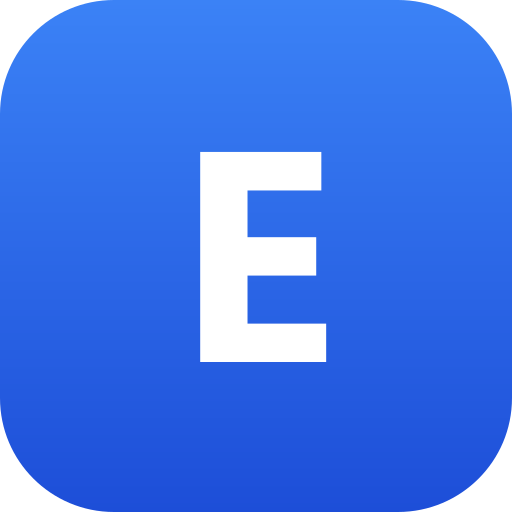
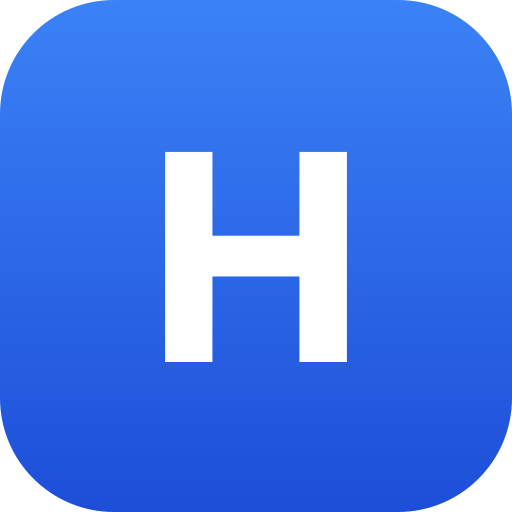
feat: renomme EditorX en H Editor + titre anime + infos enrichies
- Nom change partout : interface (en-tete, splash, barre d'etat, 404, page
  hors ligne), manifeste PWA, metadonnees SEO, documentation, package.
- Icone : la lettre E devient H (favicon, 192, 512, og-image regenerees).
- Les cles de stockage (editorx-*), la base IndexedDB et les canaux postMessage
  restent inchanger : les donnees des utilisateurs existants restent lisibles.
- Sous-titre : "Ne sur smartphone, eleve a la demoscene" a la place de
  "Editeur de code professionnel".
- AppTitle (nouveau) : cycle de couleurs regulier par lettre, hommage demoscene,
  gele par prefers-reduced-motion, nom complet expose aux lecteurs d'ecran.
- Modal Infos complete : petite histoire, usages, confidentialite, ton modeste.
- Tests adaptes : titre de la page hors ligne, nom de telechargement h-editor-*.
  lint 0 erreur, tsc 0 erreur, 147/147 unitaires, 121/121 E2E (4 moteurs).

Changed region(s): [[0.3125, 0.2812, 0.6875, 0.7188]]

diff --git a/index.html b/index.html
@@ -3,8 +3,8 @@
   <head>
     <meta charset="UTF-8" />
     <meta name="viewport" content="width=device-width, initial-scale=1.0" />
-    <title>EditorX - Éditeur de code en ligne gratuit | 40+ langages</title>
-    <meta name="description" content="EditorX est un éditeur de code professionnel 100% front-end. Coloration syntaxique pour 40+ langages, preview Markdown, raccourcis VSCode, sauvegarde locale et export ZIP. Gratuit et sans inscription." />
+    <title>H Editor - Éditeur de code en ligne gratuit | 40+ langages</title>
+    <meta name="description" content="H Editor est un éditeur de code 100% front-end, né sur smartphone. Coloration syntaxique pour 40+ langages, preview Markdown, raccourcis VSCode, sauvegarde locale et export ZIP. Gratuit et sans inscription." />
     <meta name="author" content="Geoffroy Streit" />
     <meta name="keywords" content="éditeur de code, code editor, Monaco Editor, IDE en ligne, JavaScript, TypeScript, Python, PHP, Markdown, développement web, programmation" />
     <meta name="robots" content="index, follow" />
@@ -24,25 +24,25 @@
     <!-- JetBrains Mono est auto-hébergée (src/styles/fonts.css) : aucun appel réseau tiers. -->
 
     <!-- Open Graph -->
-    <meta property="og:title" content="EditorX - Éditeur de code en ligne gratuit" />
-    <meta property="og:description" content="Éditeur de code professionnel 100% front-end avec coloration syntaxique, preview Markdown et raccourcis VSCode." />
+    <meta property="og:title" content="H Editor - Éditeur de code en ligne gratuit" />
+    <meta property="og:description" content="Éditeur de code 100% front-end avec coloration syntaxique, preview Markdown et raccourcis VSCode." />
     <meta property="og:type" content="website" />
     <meta property="og:url" content="https://hylst.fr/app/" />
     <meta property="og:image" content="https://hylst.fr/app/og-image.png" />
     <meta property="og:image:width" content="1200" />
     <meta property="og:image:height" content="630" />
-    <meta property="og:image:alt" content="EditorX — éditeur de code dans votre navigateur" />
+    <meta property="og:image:alt" content="H Editor — éditeur de code dans votre navigateur" />
     <meta property="og:locale" content="fr_FR" />
     <meta property="og:locale:alternate" content="en_US" />
-    <meta property="og:site_name" content="EditorX" />
+    <meta property="og:site_name" content="H Editor" />
 
     <!-- Twitter Card -->
     <meta name="twitter:card" content="summary_large_image" />
     <meta name="twitter:site" content="@hylst" />
-    <meta name="twitter:title" content="EditorX - Éditeur de code en ligne gratuit" />
-    <meta name="twitter:description" content="Éditeur de code professionnel avec Monaco Editor, 40+ langages supportés." />
+    <meta name="twitter:title" content="H Editor - Éditeur de code en ligne gratuit" />
+    <meta name="twitter:description" content="Éditeur de code 100% local avec Monaco Editor, 40+ langages supportés." />
     <meta name="twitter:image" content="https://hylst.fr/app/og-image.png" />
-    <meta name="twitter:image:alt" content="EditorX — éditeur de code dans votre navigateur" />
+    <meta name="twitter:image:alt" content="H Editor — éditeur de code dans votre navigateur" />
     <meta name="twitter:creator" content="@hylst" />
 
     <!-- Structured Data -->
@@ -50,8 +50,8 @@
     {
       "@context": "https://schema.org",
       "@type": "WebApplication",
-      "name": "EditorX",
-      "description": "Éditeur de code professionnel 100% front-end avec coloration syntaxique pour 40+ langages",
+      "name": "H Editor",
+      "description": "Éditeur de code 100% local avec coloration syntaxique pour 40+ langages",
       "url": "https://hylst.fr/app/",
       "image": "https://hylst.fr/app/og-image.png",
       "applicationCategory": "DeveloperApplication",
@@ -92,9 +92,9 @@
   <body>
     <noscript>
       <div style="font-family: system-ui, sans-serif; max-width: 40rem; margin: 4rem auto; padding: 0 1rem; color: #e5e7eb; background: #0f1419;">
-        <h1>EditorX nécessite JavaScript</h1>
+        <h1>H Editor nécessite JavaScript</h1>
         <p>
-          EditorX est un éditeur de code qui s'exécute entièrement dans votre navigateur.
+          H Editor est un éditeur de code qui s'exécute entièrement dans votre navigateur.
           Activez JavaScript pour l'utiliser — aucune donnée n'est envoyée à un serveur.
         </p>
       </div>

diff --git a/src/components/Editor/InfoDialog.tsx b/src/components/Editor/InfoDialog.tsx
@@ -44,7 +44,7 @@ const InfoDialog = ({ open, onOpenChange }: InfoDialogProps) => (
       <DialogHeader>
         <DialogTitle className="flex items-center gap-2 text-xl">
           <Info className="h-5 w-5 text-primary" aria-hidden="true" />
-          À propos d’EditorX
+          À propos d’H Editor
         </DialogTitle>
       </DialogHeader>
 
@@ -68,9 +68,36 @@ const InfoDialog = ({ open, onOpenChange }: InfoDialogProps) => (
           <TabsContent value="about" className="space-y-4">
             <div className="py-4 text-center">
               <p className="bg-gradient-to-r from-primary to-accent bg-clip-text text-3xl font-bold text-transparent">
-                EditorX
+                H Editor
               </p>
-              <p className="text-muted-foreground">Éditeur de code 100 % local — version {APP_VERSION}</p>
+              <p className="text-muted-foreground">
+                Un petit éditeur de code 100 % local — version {APP_VERSION}
+              </p>
+            </div>
+
+            <div className="space-y-2 rounded-lg border border-border bg-muted/40 p-4">
+              <h3 className="font-semibold">Petite histoire</h3>
+              <p className="text-sm text-muted-foreground">
+                H Editor est né il y a deux ans d’un besoin tout simple : pouvoir éditer du code
+                sur smartphone et sur tablette, en attendant de retrouver un vrai clavier à la
+                maison. Il a bien grandi depuis — et reste, avant tout, un plaisir à développer.
+              </p>
+              <p className="text-sm text-muted-foreground">
+                Derrière ce projet : Geoffroy, développeur passionné de rétro-informatique,
+                d’ATARI ST et de demoscene — l’animation du titre dans l’en-tête est un petit clin
+                d’œil à cette époque où chaque couleur de palette comptait. Sans prétention :
+                l’outil ne remplace pas votre IDE, il vous suit simplement partout.
+              </p>
+            </div>
+
+            <div className="space-y-2">
+              <h3 className="font-semibold">Ce que vous pouvez faire ici</h3>
+              <ul className="list-inside list-disc space-y-1 text-sm text-muted-foreground">
+                <li>Éditer plus de 40 langages avec le moteur de VS Code, formatage Prettier inclus.</li>
+                <li>Organiser un projet (dossiers, ZIP, JSON) et le retrouver intact à chaque retour.</li>
+                <li>Prévisualiser du Markdown ou un site multi-fichiers, console interactive comprise.</li>
+                <li>Installer l’app (PWA) et travailler hors ligne — tout reste dans votre navigateur.</li>
+              </ul>
             </div>
 
             <div className="space-y-2 rounded-lg border border-border bg-muted/40 p-4">
@@ -92,13 +119,18 @@ const InfoDialog = ({ open, onOpenChange }: InfoDialogProps) => (
             <div className="space-y-2">
               <h3 className="font-semibold">Technologies</h3>
               <p className="text-sm text-muted-foreground">
-                React 18, TypeScript, Vite, Monaco Editor, Tailwind CSS, Radix UI, Prettier, JSZip.
+                React 18, TypeScript, Vite, Monaco Editor, Tailwind CSS, Radix UI, Prettier, JSZip —
+                le tout sans backend : vos données ne quittent jamais votre navigateur.
               </p>
             </div>
 
             <div className="space-y-1">
               <h3 className="font-semibold">Créateur</h3>
-              <p className="text-sm text-muted-foreground">{APP_AUTHOR} — licence MIT</p>
+              <p className="text-sm text-muted-foreground">
+                {APP_AUTHOR} — licence MIT. L’outil est offert, sans publicité ni compte. Vos
+                retours, idées et rapports de bugs sont très bienvenus : c’est ce qui le rend
+                meilleur, un commit à la fois.
+              </p>
             </div>
           </TabsContent>
 

diff --git a/src/index.css b/src/index.css
@@ -5,7 +5,7 @@
 @tailwind utilities;
 
 /*
-  Système de design EditorX — toutes les couleurs sont en HSL.
+  Système de design H Editor — toutes les couleurs sont en HSL.
 
   `:root` porte le thème CLAIR, `.dark` le thème SOMBRE (mode `class` de Tailwind,
   piloté par le réglage « Thème de l'interface »). Auparavant une seule palette
@@ -98,7 +98,7 @@
   }
 
   .dark {
-    /* ── Thème sombre (défaut d'EditorX) ───────────────────────────────── */
+    /* ── Thème sombre (défaut d'H Editor) ───────────────────────────────── */
     --background: 220 15% 12%;
     --foreground: 210 20% 98%;
 
@@ -203,6 +203,39 @@
 .animate-fade-in {
   animation: fade-in 0.2s ease-out;
 }
+
+/* ── Titre de l'application : cycle de couleurs régulier, hommage aux
+   changements de palette de la demoscene. Chaque lettre est décalée dans le
+   cycle (--char-index) pour une onde qui traverse le nom. Le bloc global
+   `prefers-reduced-motion` en fin de fichier gèle l'animation pour celles et
+   ceux qui le demandent. ────────────────────────────────────────────────── */
+@keyframes app-title-cycle {
+  0% {
+    color: hsl(195 95% 58%);
+  }
+  25% {
+    color: hsl(280 85% 74%);
+  }
+  50% {
+    color: hsl(330 90% 70%);
+  }
+  75% {
+    color: hsl(45 95% 62%);
+  }
+  100% {
+    color: hsl(195 95% 58%);
+  }
+}
+
+.app-title-char {
+  display: inline-block;
+  animation: app-title-cycle 6s linear infinite;
+  animation-delay: calc(var(--char-index, 0) * -0.45s);
+}
+
+/* ── Titre de l'application : cycle de couleurs régulier, hommage aux
+   changements de palette de la demoscene. Chaque lettre est décalée dans le
+   cycle (--char-index) pour une onde qui traverse le nom. ─────────────────── */
 
 @media (prefers-reduced-motion: reduce) {
   *,

diff --git a/src/components/Editor/EditorLayout.tsx b/src/components/Editor/EditorLayout.tsx
@@ -31,6 +31,7 @@ import TabBar from './TabBar';
 import Sidebar from './Sidebar';
 import StatusBar from './StatusBar';
 import ResizeHandle from './ResizeHandle';
+import AppTitle from './AppTitle';
 import { useKeyboardShortcuts, type KeyboardShortcut } from '@/hooks/useKeyboardShortcuts';
 import { useSettings } from '@/hooks/useSettings';
 import { useWorkspace } from '@/hooks/useWorkspace';
@@ -369,7 +370,7 @@ const EditorLayout = () => {
       // Le fichier a changé sur le disque depuis son ouverture : l'écraser
       // ferait perdre le travail de l'autre outil (éditeur, git…).
       const file = targetFile;
-      toast.warning('Ce fichier a été modifié en dehors d’EditorX', {
+      toast.warning('Ce fichier a été modifié en dehors d’H Editor', {
         description: `Modifié sur le disque le ${new Date(result.diskModifiedAt).toLocaleString('fr-FR')}. Écraser remplacerait cette version.`,
         duration: Infinity,
         action: {
@@ -992,12 +993,10 @@ const EditorLayout = () => {
               <TooltipContent>Explorateur (Ctrl+B)</TooltipContent>
             </Tooltip>
 
-            <span className="flex-shrink-0 bg-gradient-to-r from-primary to-accent bg-clip-text text-lg font-bold text-transparent sm:text-xl">
-              EditorX
-            </span>
+            <AppTitle />
             <span className="hidden h-4 w-px bg-editor-border sm:block" />
             <span className="hidden truncate text-xs text-editor-text-muted md:block sm:text-sm">
-              Éditeur de code professionnel
+              Né sur smartphone, élevé à la demoscene
             </span>
           </div>
 

diff --git a/src/components/ErrorBoundary.tsx b/src/components/ErrorBoundary.tsx
@@ -25,7 +25,7 @@ class ErrorBoundary extends Component<Props, State> {
   }
 
   componentDidCatch(error: Error, info: ErrorInfo) {
-    console.error('EditorX — erreur non rattrapée :', error, info.componentStack);
+    console.error('H Editor — erreur non rattrapée :', error, info.componentStack);
   }
 
   private handleReload = () => window.location.reload();
@@ -48,7 +48,7 @@ class ErrorBoundary extends Component<Props, State> {
   };
 
   private handleReset = () => {
-    if (!window.confirm('Effacer les données locales d’EditorX et redémarrer ?')) return;
+    if (!window.confirm('Effacer les données locales d’H Editor et redémarrer ?')) return;
     try {
       localStorage.clear();
       indexedDB?.deleteDatabase('editorx');
@@ -69,7 +69,7 @@ class ErrorBoundary extends Component<Props, State> {
             <div>
               <h1 className="text-xl font-semibold text-foreground">Une erreur est survenue</h1>
               <p className="text-sm text-muted-foreground">
-                EditorX s’est arrêté, mais vos fichiers sont toujours dans le stockage local.
+                H Editor s’est arrêté, mais vos fichiers sont toujours dans le stockage local.
               </p>
             </div>
           </div>

diff --git a/src/components/Editor/StatusBar.tsx b/src/components/Editor/StatusBar.tsx
@@ -6,7 +6,7 @@ import type { StorageUsage } from '@/services/workspace';
 import type { SplitView } from '@/hooks/useSplitLayout';
 import { Button } from '@/components/ui/button';
 import { useInstallPrompt } from '@/hooks/useInstallPrompt';
-import { APP_VERSION } from '@/utils/appInfo';
+import { APP_NAME, APP_VERSION } from '@/utils/appInfo';
 
 interface StatusBarProps {
   activeFile: EditorFile | null;
@@ -180,7 +180,7 @@ const StatusBar = ({
               type="button"
               onClick={install}
               className="flex items-center gap-1 hover:text-editor-text"
-              aria-label="Installer EditorX sur cet appareil"
+              aria-label="Installer H Editor sur cet appareil"
               title="Installer l'application sur cet appareil"
             >
               <Download className="h-3 w-3" aria-hidden="true" />
@@ -196,7 +196,7 @@ const StatusBar = ({
           aria-label="Ouvrir les paramètres"
         >
           <Settings className="h-3 w-3" aria-hidden="true" />
-          EditorX v{APP_VERSION}
+          {APP_NAME} v{APP_VERSION}
         </button>
       </div>
     </footer>

diff --git a/src/components/Editor/AppTitle.tsx b/src/components/Editor/AppTitle.tsx
@@ -1,0 +1,31 @@
+import type { CSSProperties } from 'react';
+
+/**
+ * Titre de l'application dans l'en-tête.
+ *
+ * Le nom est découpé caractère par caractère pour animer un cycle de couleurs
+ * régulier — clin d'œil aux cycles de palette de la demoscene. Le nom complet
+ * est doublé en `sr-only` pour les lecteurs d'écran : les lettres animées sont
+ * `aria-hidden` pour ne pas être épelées. `prefers-reduced-motion` gèle
+ * l'animation via le bloc global de `index.css`.
+ */
+const TITLE = 'H Editor';
+
+const AppTitle = () => (
+  <span className="flex-shrink-0 text-lg font-bold sm:text-xl">
+    <span className="sr-only">{TITLE}</span>
+    <span aria-hidden="true">
+      {TITLE.split('').map((char, index) => (
+        <span
+          key={`${index}-${char}`}
+          className="app-title-char"
+          style={{ '--char-index': index } as CSSProperties}
+        >
+          {char === ' ' ? '\u00A0' : char}
+        </span>
+      ))}
+    </span>
+  </span>
+);
+
+export default AppTitle;

diff --git a/src/pages/NotFound.tsx b/src/pages/NotFound.tsx
@@ -8,7 +8,7 @@ const NotFound = () => {
 
   useEffect(() => {
     console.error("404 — route inconnue :", location.pathname);
-    document.title = "404 — Page introuvable | EditorX";
+    document.title = "404 — Page introuvable | H Editor";
   }, [location.pathname]);
 
   return (
@@ -18,7 +18,7 @@ const NotFound = () => {
         <h1 className="mb-2 text-6xl font-bold tracking-tight">404</h1>
         <p className="mb-2 text-xl font-medium">Page introuvable</p>
         <p className="mb-8 text-sm text-muted-foreground">
-          La route <code className="rounded bg-muted px-1.5 py-0.5 text-xs">{location.pathname}</code> n'existe pas dans EditorX.
+          La route <code className="rounded bg-muted px-1.5 py-0.5 text-xs">{location.pathname}</code> n'existe pas dans H Editor.
         </p>
         <Button asChild>
           <Link to="/" aria-label="Retour à l'éditeur">

diff --git a/src/services/workspace/types.ts b/src/services/workspace/types.ts
@@ -1,7 +1,7 @@
 /**
  * Contrat de stockage de l'espace de travail (port).
  *
- * EditorX est 100 % front-end : la seule implémentation active est locale
+ * H Editor est 100 % front-end : la seule implémentation active est locale
  * (`localStore.ts`, localStorage + IndexedDB). Ce contrat existe pour que
  * l'ajout éventuel d'un backend (synchronisation, partage, multi-appareils)
  * se fasse **sans toucher à l'interface utilisateur** : il suffira de fournir
@@ -60,7 +60,7 @@ export interface StorageUsage {
   usage: number;
   /** Quota annoncé par le navigateur. */
   quota: number;
-  /** Poids du projet EditorX lui-même (somme des contenus). */
+  /** Poids du projet H Editor lui-même (somme des contenus). */
   workspaceBytes: number;
 }
 

diff --git a/vite.config.ts b/vite.config.ts
@@ -41,10 +41,10 @@ export default defineConfig(() => ({
       // de partage (récupérés par les robots depuis le réseau), jamais à l'application.
       includeAssets: ["favicon.ico", "icon.svg", "icon-192.png", "icon-512.png"],
       manifest: {
-        name: "EditorX",
-        short_name: "EditorX",
+        name: "H Editor",
+        short_name: "H Editor",
         description:
-          "Éditeur de code professionnel dans votre navigateur — Monaco Editor, 40+ langages, 100% local.",
+          "Éditeur de code 100 % local, né sur smartphone — Monaco Editor, 40+ langages, hors ligne.",
         theme_color: THEME_COLOR,
         background_color: THEME_COLOR,
         display: "standalone",

diff --git a/public/offline.html b/public/offline.html
@@ -3,7 +3,7 @@
   <head>
     <meta charset="UTF-8" />
     <meta name="viewport" content="width=device-width, initial-scale=1.0" />
-    <title>EditorX — Hors ligne</title>
+    <title>H Editor — Hors ligne</title>
     <meta name="robots" content="noindex" />
     <style>
       * { margin: 0; padding: 0; box-sizing: border-box; }
@@ -57,7 +57,7 @@
       </svg>
       <h1>Vous êtes hors ligne</h1>
       <p>
-        EditorX fonctionne hors ligne grâce au cache de votre navigateur,
+        H Editor fonctionne hors ligne grâce au cache de votre navigateur,
         mais cette page n'a pas pu être chargée.
       </p>
       <a href="/app/">Retour à l'éditeur</a>

diff --git a/src/components/Editor/MonacoEditorInner.tsx b/src/components/Editor/MonacoEditorInner.tsx
@@ -124,7 +124,7 @@ const MonacoEditorInner = forwardRef<MonacoEditorRef, MonacoEditorProps>(
         <div className="flex h-full items-center justify-center bg-editor-background">
           <div className="space-y-4 text-center px-6">
             <div className="bg-gradient-to-r from-primary to-accent bg-clip-text text-4xl font-bold text-transparent">
-              EditorX
+              H Editor
             </div>
             <p className="text-editor-text-muted">
               Ouvrez un fichier pour commencer, ou créez-en un avec Ctrl+N
